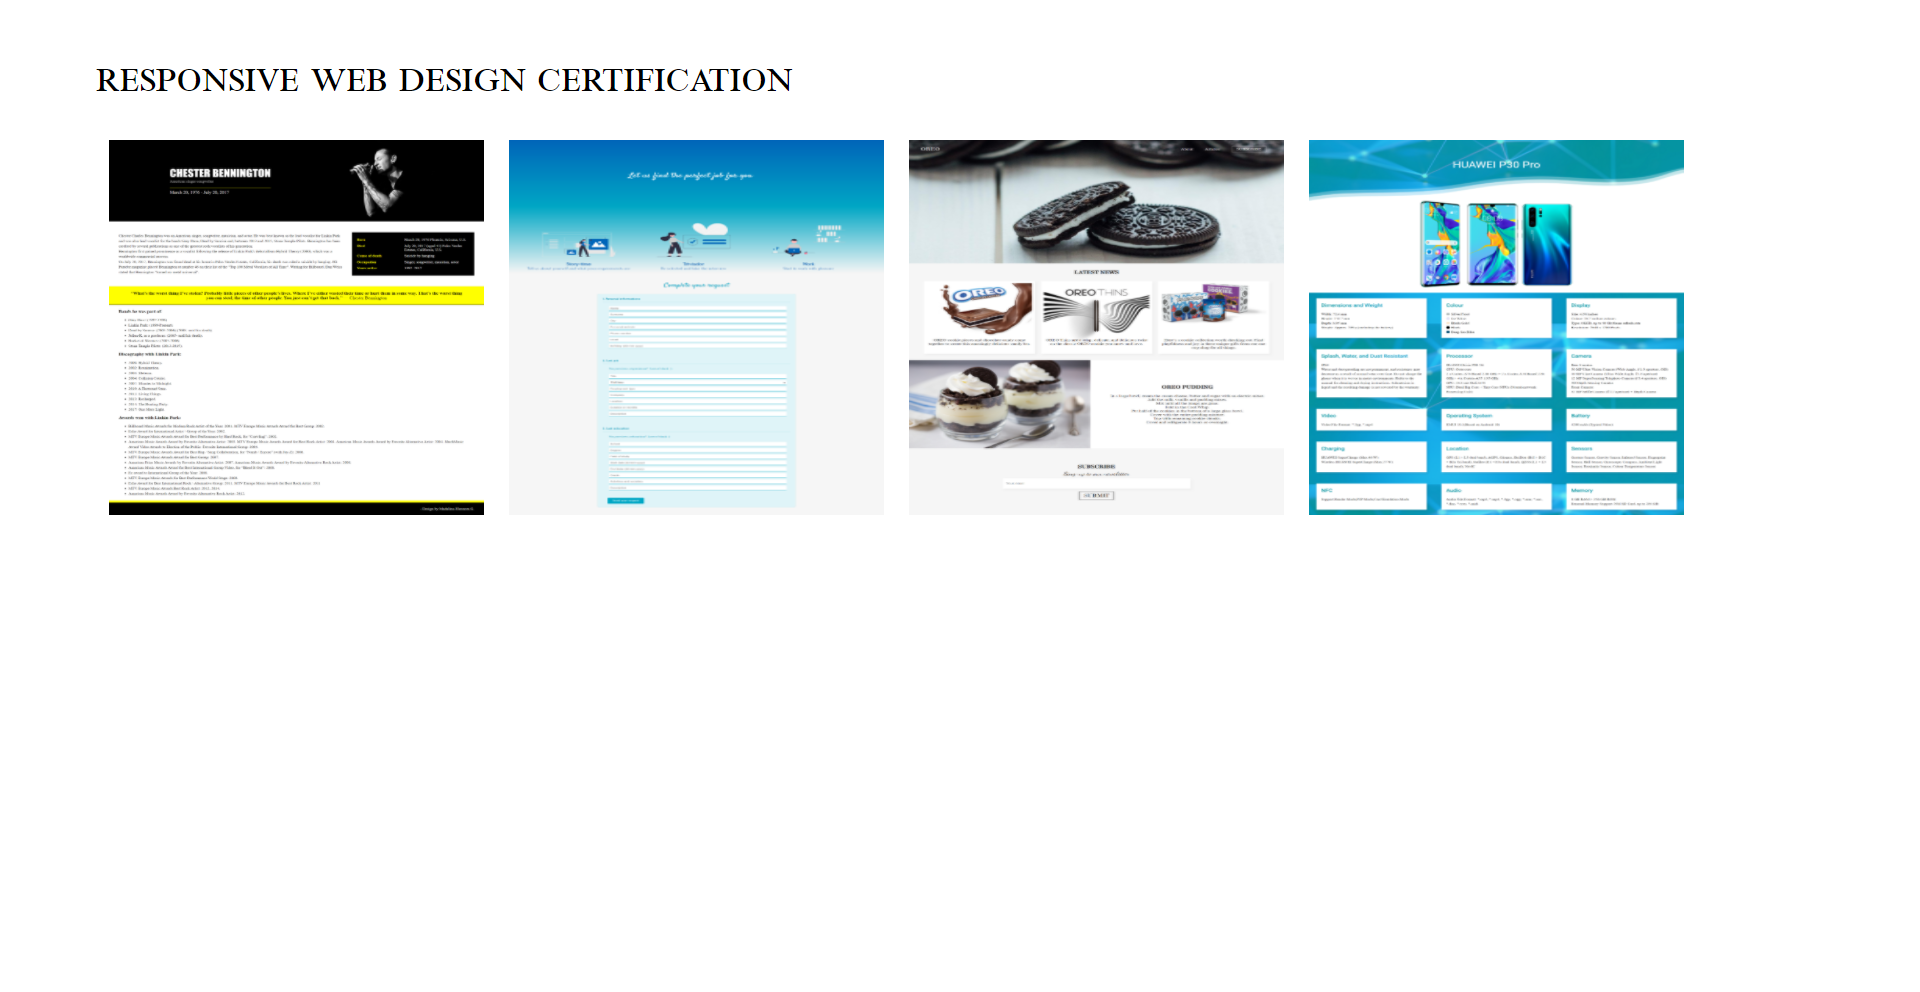
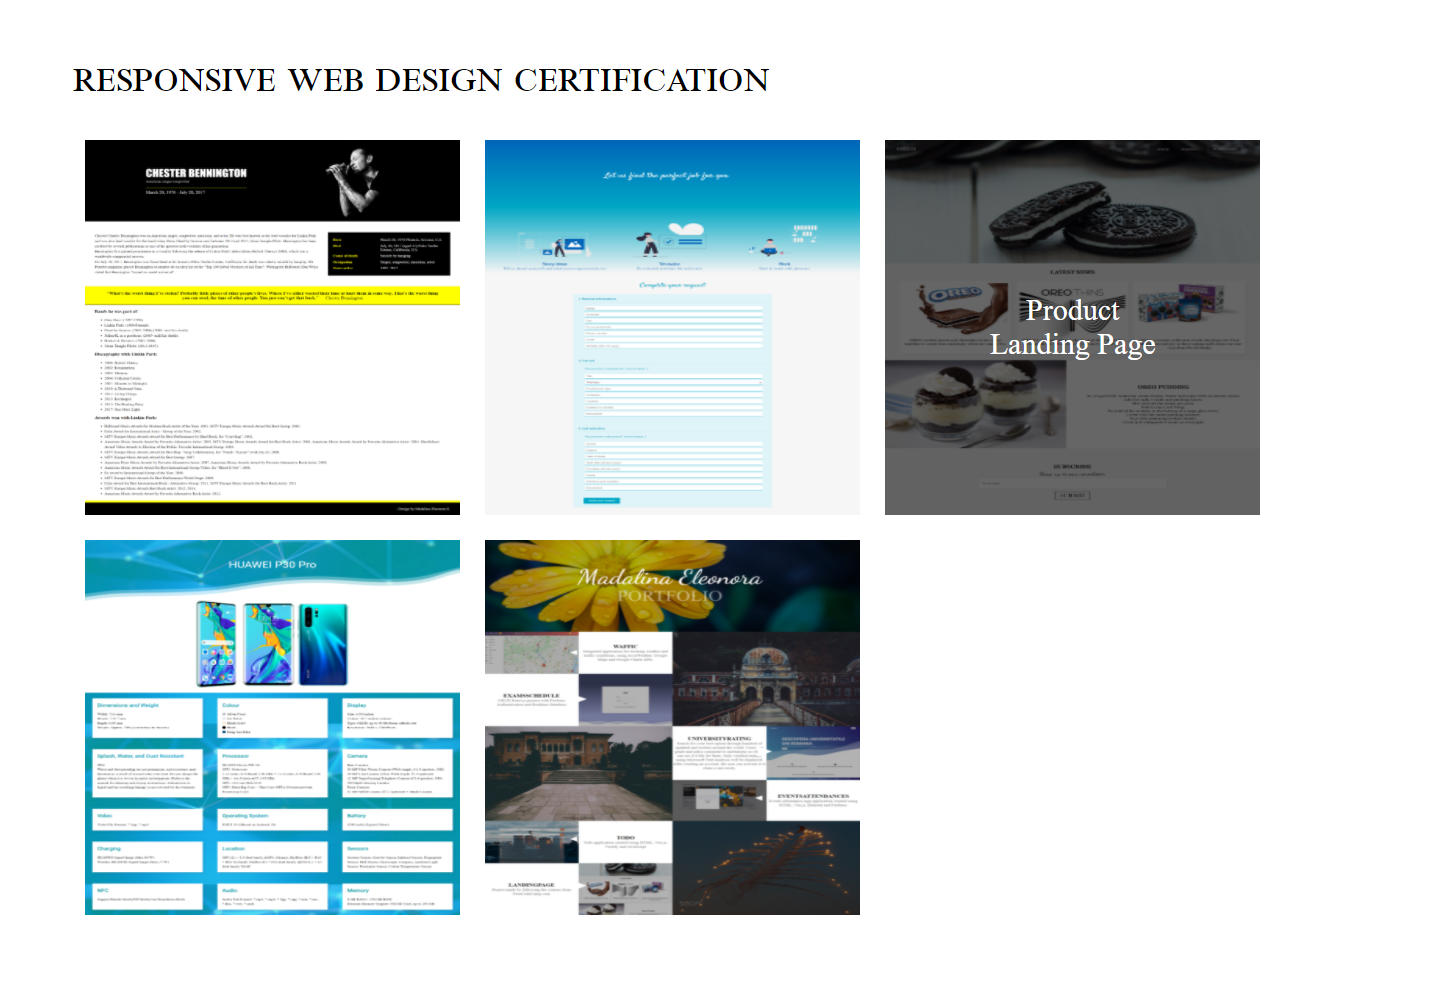
added readme and portfolio to project

diff --git a/Responsive-Web-Design-Certification/portfolio-project/index.html b/Responsive-Web-Design-Certification/portfolio-project/index.html
@@ -5,107 +5,113 @@
     <title>Madalina Eleonora's Portfolio</title>
   </head>
   <body>
-    <div class="header">
-      <img class="header-img" src="header.jpg" />
-      <div class="header-title">
-        <div class="header-user-name">Madalina Eleonora</div>
-        <div class="header-page-type">Portfolio</div>
-      </div>
+    <div
+      class="homepage-redirect"
+      onclick="window.location.href='../../homepage/index.html'"
+    >
+      ◄ Back to projects list
     </div>
-    <div class="content-grid">
-      <div class="grid-item left">
-        <img src="waffic.png" class="grid-image" />
-        <svg
-          class="arrow"
-          xmlns="http://www.w3.org/2000/svg"
-          version="1.1"
-          class="svg-triangle"
-          width="20"
-          height="50"
-        >
-          <path d="M 5,25 48.5,5 48.5,46 Z" />
-        </svg>
-      </div>
-      <div class="grid-item-text">
-        <div class="grid-text-title">Waffic</div>
-        <div class="grid-text-subtitle">
-          Integrated application for tracking weather and traffic conditions,
-          using AccuWeather, Google Maps and Google Charts APIs.
+    <div>
+      <div class="header">
+        <div class="header-title">
+          <div class="header-user-name">Madalina Eleonora</div>
+          <div class="header-page-type">Portfolio</div>
         </div>
       </div>
-      <div class="grid-item-square-1">
-        <img src="github1.png" class="grid-image" />
-      </div>
-      <div class="grid-item-text">
-        <div class="grid-text-title">ExamsSchedule</div>
-        <div class="grid-text-subtitle">
-          CRUD React.js project with Firebase Authentication and Realtime
-          Database
+      <div class="content-grid">
+        <div class="grid-item left">
+          <img src="waffic.png" class="grid-image" />
+          <svg
+            class="arrow"
+            xmlns="http://www.w3.org/2000/svg"
+            version="1.1"
+            class="svg-triangle"
+            width="20"
+            height="50"
+          >
+            <path d="M 5,25 48.5,5 48.5,46 Z" />
+          </svg>
+        </div>
+        <div class="grid-item-text">
+          <div class="grid-text-title">Waffic</div>
+          <div class="grid-text-subtitle">
+            Integrated application for tracking weather and traffic conditions,
+            using AccuWeather, Google Maps and Google Charts APIs.
+          </div>
+        </div>
+        <div class="grid-item-square-1">
+          <img src="github1.png" class="grid-image" />
+        </div>
+        <div class="grid-item-text">
+          <div class="grid-text-title">ExamsSchedule</div>
+          <div class="grid-text-subtitle">
+            CRUD React.js project with Firebase Authentication and Realtime
+            Database
+          </div>
+        </div>
+        <div class="grid-item right">
+          <img src="exam-schedule.png" class="grid-image" />
+          <svg
+            class="arrow to-right-arrow"
+            xmlns="http://www.w3.org/2000/svg"
+            version="1.1"
+            class="svg-triangle"
+            width="20"
+            height="50"
+          >
+            <path d="M 5,25 48.5,5 48.5,46 Z" />
+          </svg>
         </div>
       </div>
-      <div class="grid-item right">
-        <img src="exam-schedule.png" class="grid-image" />
-        <svg
-          class="arrow to-right-arrow"
-          xmlns="http://www.w3.org/2000/svg"
-          version="1.1"
-          class="svg-triangle"
-          width="20"
-          height="50"
-        >
-          <path d="M 5,25 48.5,5 48.5,46 Z" />
-        </svg>
-      </div>
-    </div>
-    <div class="content-grid">
-      <div class="grid-item-square-2">
-        <img src="github2.png" class="grid-image" />
-      </div>
-      <div class="grid-item-text">
-        <div class="grid-text-title">UniversityRating</div>
-        <div class="grid-text-subtitle">
-          Search for your best option through hundred of updated universities
-          around the world. Users can grade and add a comment to institutions so
-          others can see if it fits for them. Only verified ratings, using
-          Microsoft Text Analysis will be displayed. After creating an account,
-          the user can activate it to claim a university.
+      <div class="content-grid">
+        <div class="grid-item-square-2">
+          <img src="github2.png" class="grid-image" />
+        </div>
+        <div class="grid-item-text">
+          <div class="grid-text-title">UniversityRating</div>
+          <div class="grid-text-subtitle">
+            Search for your best option through hundred of updated universities
+            around the world. Users can grade and add a comment to institutions
+            so others can see if it fits for them. Only verified ratings, using
+            Microsoft Text Analysis will be displayed. After creating an
+            account, the user can activate it to claim a university.
+          </div>
+        </div>
+        <div class="grid-item right">
+          <img src="university-rating.png" class="grid-image" />
+          <svg
+            class="arrow to-right-arrow"
+            xmlns="http://www.w3.org/2000/svg"
+            version="1.1"
+            class="svg-triangle"
+            width="20"
+            height="50"
+          >
+            <path d="M 5,25 48.5,5 48.5,46 Z" />
+          </svg>
+        </div>
+        <div class="grid-item left">
+          <img src="events-attendances.png" class="grid-image" />
+          <svg
+            class="arrow"
+            xmlns="http://www.w3.org/2000/svg"
+            version="1.1"
+            class="svg-triangle"
+            width="20"
+            height="50"
+          >
+            <path d="M 5,25 48.5,5 48.5,46 Z" />
+          </svg>
+        </div>
+        <div class="grid-item-text">
+          <div class="grid-text-title">EventsAttendances</div>
+          <div class="grid-text-subtitle">
+            Events Attendance App application created using HTML, Vue.js,
+            Element and Firebase.
+          </div>
         </div>
       </div>
-      <div class="grid-item right">
-        <img src="university-rating.png" class="grid-image" />
-        <svg
-          class="arrow to-right-arrow"
-          xmlns="http://www.w3.org/2000/svg"
-          version="1.1"
-          class="svg-triangle"
-          width="20"
-          height="50"
-        >
-          <path d="M 5,25 48.5,5 48.5,46 Z" />
-        </svg>
-      </div>
-      <div class="grid-item left">
-        <img src="events-attendances.png" class="grid-image" />
-        <svg
-          class="arrow"
-          xmlns="http://www.w3.org/2000/svg"
-          version="1.1"
-          class="svg-triangle"
-          width="20"
-          height="50"
-        >
-          <path d="M 5,25 48.5,5 48.5,46 Z" />
-        </svg>
-      </div>
-      <div class="grid-item-text">
-        <div class="grid-text-title">EventsAttendances</div>
-        <div class="grid-text-subtitle">
-          Events Attendance App application created using HTML, Vue.js, Element
-          and Firebase.
-        </div>
-      </div>
-    </div>
-    <div class="content-grid">
+      <div class="content-grid">
         <div class="grid-item left">
           <img src="todo.png" class="grid-image" />
           <svg
@@ -148,5 +154,6 @@
           </svg>
         </div>
       </div>
+    </div>
   </body>
 </html>

diff --git a/Responsive-Web-Design-Certification/portfolio-project/styles.css b/Responsive-Web-Design-Certification/portfolio-project/styles.css
@@ -15,6 +15,13 @@ body {
     display: flex;
     align-items: center;
     justify-content: center;
+    position: relative;
+    color: white;
+    background-size: cover;
+    width: 100%;
+    background-position-y: center;
+    bottom: 0px;
+    background-image: url(header.jpg);
 }
 .header .header-img {
     height: 100%;

diff --git a/homepage/index.html b/homepage/index.html
@@ -1,6 +1,7 @@
 <html>
   <head>
     <link rel="stylesheet" href="styles.css" />
+    <link rel="stylesheet" href="../../general-styles.css" />
     <title>FreeCodeCamp Projects</title>
   </head>
   <body>

diff --git a/README.md b/README.md
@@ -13,3 +13,5 @@ Projects made by following the courses from FreeCodeCamp.com
     ![''](./Responsive-Web-Design-Certification/landing-project/landing-design.png)
 * Technical page<br>
     ![''](./Responsive-Web-Design-Certification/technical-project/technical-design.png)
+* Portfolio page<br>
+    ![''](./Responsive-Web-Design-Certification/portfolio-project/portfolio-design.png)
